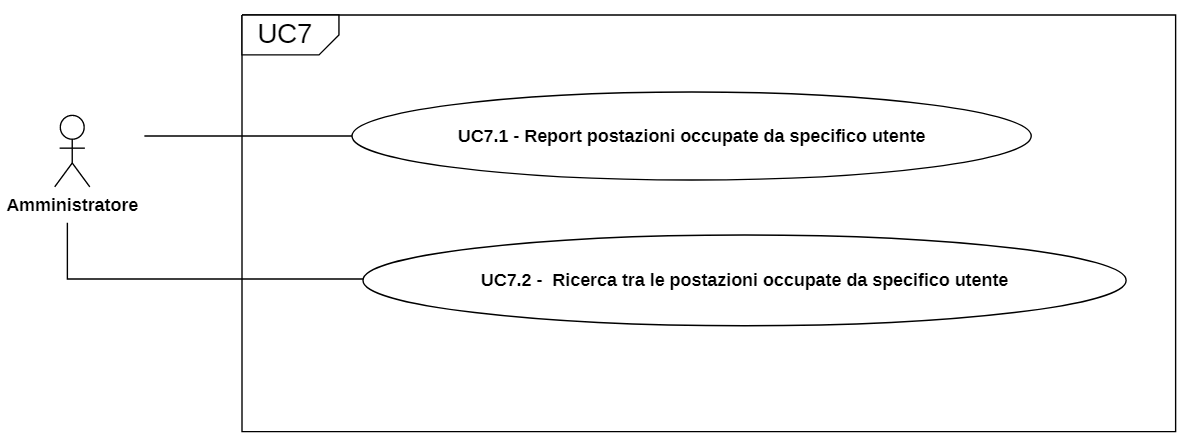
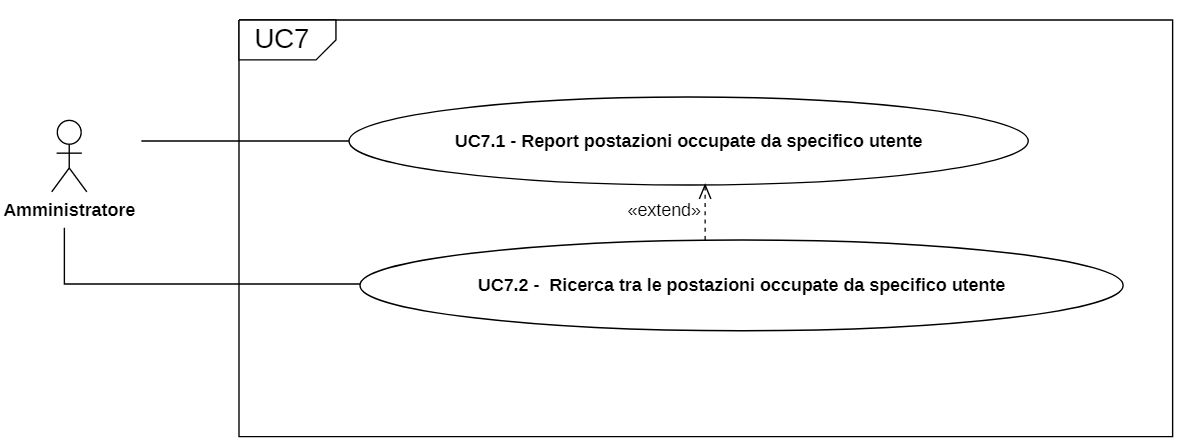
corretto UC7 #36

diff --git a/esterni/AnalisiDeiRequisiti/res/sections/casiUso.tex b/esterni/AnalisiDeiRequisiti/res/sections/casiUso.tex
@@ -315,8 +315,6 @@ In questa sezione sono riportati tutti i casi d'uso individuati, ordinati per at
 	\end{itemize}
 	Inoltre gli viene chiesto di indicare la posizione della postazione su una scacchiera rappresentante la stanza.
 	L'amministratore preme un bottone per la conferma dei dati e la postazione viene aggiunta all'interno della stanza. La nuova configurazione della stanza viene comunicata ad Ethereum.
-	\item\textbf{Estensioni:}
-	1. Se l'utente inserisce un codice già presente all'interno della stanza viene mostrato un messaggio d'errore.
 	\item\textbf{Precondizione:} 
 	L'utente è autenticato.
 	\item\textbf{Postcondizione:}
@@ -479,8 +477,9 @@ In questa sezione sono riportati tutti i casi d'uso individuati, ordinati per at
            	L'amministratore ottiene informazioni in forma tabellare sulle postazioni occupate da uno specifico utente.
            	\item\textbf{Scenario principale:} 
            	L'amministratore raggiunge la pagina per la ricerca delle occupazioni delle postazioni e inserisce il nickname oppure il Nome e Cognome dell'utente a cui è interessato.
+           	Nel report vengono visualizzate le date di inizio e fine delle occupazioni e i codici delle postazioni.
            	\item\textbf{Estensioni:}
-           	Ricerca tra le postazioni occupate da uno specifico utente (UC7.1).
+           	Ricerca tra le postazioni occupate da uno specifico utente (UC7.2).
            	\item\textbf{Precondizione:} 
            	L'utente è autenticato come amministratore.
            	\item\textbf{Postcondizione:}

diff --git a/esterni/AnalisiDeiRequisiti/main.tex b/esterni/AnalisiDeiRequisiti/main.tex
@@ -13,7 +13,7 @@
 
 \newcommand{\docNome}{ ANALISI DEI REQUISITI }
 \newcommand{\docNomeProgetto}{  BlockCOVID: supporto digitale al contrasto della pandemia }
-\newcommand{\docVersione}{0.0.13}
+\newcommand{\docVersione}{0.0.14}
 \newcommand{\docStatus}{in redazione}
 \newcommand{\docUso}{esterno}
 \newcommand{\docDescrizione}{

diff --git a/esterni/AnalisiDeiRequisiti/res/registro.tex b/esterni/AnalisiDeiRequisiti/res/registro.tex
@@ -10,6 +10,8 @@
 		\endfirsthead
 		
 		% ----- Modificare da qui -----
+		0.0.14 & Correzione UC7 & 2021-01-03 & Ivan Piacere & Analista \\
+		\hline
 		0.0.13 & Correzione UC5 & 2021-01-03 & Ivan Piacere & Analista \\
 		\hline
 		0.0.12 & Stesura casi d'uso amministratore & 2021-01-03 & Ivan Piacere & Analista \\
